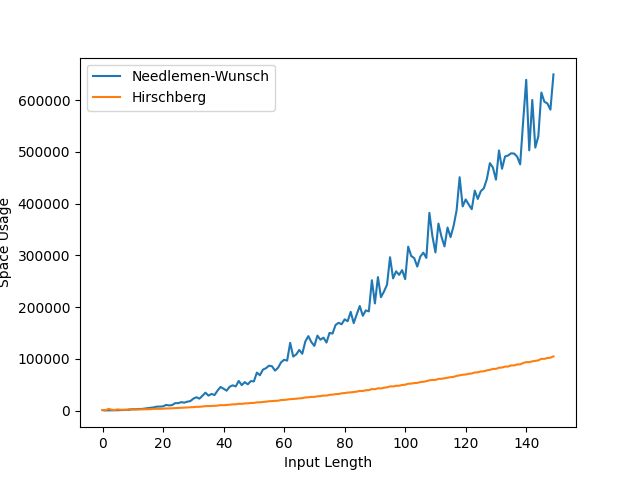
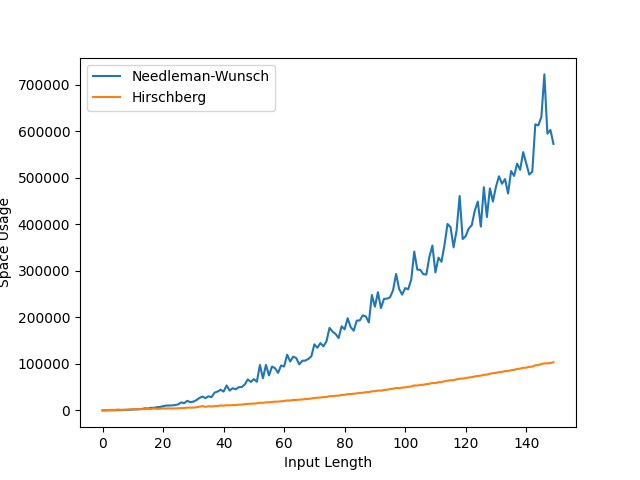
Updated README.md

diff --git a/hirschberg.py b/hirschberg.py
@@ -1,52 +1,49 @@
-from needlemenwunsch import nw
+from needlemanwunsch import needlemanwunsh
 
-def forwards(x, y, simMatrix, gapPenalty, alphEnum):
-    len_1, len_2 = len(x), len(y)
-    curr = []
-    for i in range(len_1+1):
-        curr.append([0]*(len_2+1))
-    for j in range(len_2+1):
-        curr[0][j] = gapPenalty*j
-    for i in range(1, len_1+1):
-        curr[i][0] = curr[i-1][0] + gapPenalty
-        for j in range(1, len_2+1):
-            curr[i][j] = max(curr[i-1][j-1] + simMatrix[alphEnum[x[i-1]]][alphEnum[y[j-1]]],
-                            curr[i-1][j] + gapPenalty,
-                            curr[i][j-1] + gapPenalty)
-        # Now clear row from memory.
-        curr[i-1] = []
-    return curr[len_1]
+def hirschberg(A, B, scores, alphtoint, gaps = -1):
+    if len(A)>1 and len(B)>1:
+        A1 = A[:(len(A)//2)]
 
-def backwards(x, y, simMatrix, gapPenalty, alphEnum):
-    # This is the backwards subroutine.
-    len_1, len_2 = len(x), len(y)
-    curr = []
-    for i in range(len_1+1):
-        curr.append([0]*(len_2+1))
-    for j in range(len_2+1):
-        curr[0][j] = gapPenalty*j
-    for i in range(1, len_1+1):
-        curr[i][0] = curr[i-1][0] + gapPenalty
-        for j in range(1, len_2+1):
-            curr[i][j] = max(curr[i-1][j-1] + simMatrix[alphEnum[x[len_1-i]]][alphEnum[y[len_2-j]]],
-                            curr[i-1][j] + gapPenalty,
-                            curr[i][j-1] + gapPenalty)
-        # Now clear row from memory.
-        curr[i-1] = []
-    return curr[len_1]
+        curr = []
+        for i in range(len(A1)+1):
+            curr.append([0]*(len(B)+1))
+        for i in range(len(B)+1):
+            curr[0][i] = gaps*i
+        for i in range(1, len(A1)+1):
+            curr[i][0] = curr[i-1][0]+gaps
+            for j in range(1, len(B)+1):
+                curr[i][j] = max(curr[i-1][j] + gaps, curr[i][j-1]+gaps,curr[i-1][j-1]+scores[alphtoint[A1[i-1]]][alphtoint[B[j-1]]])
+            curr[i-1] = []
 
+        pref = curr[len(A1)]
 
-def hirschberg(x, y, simMatrix, gapPenalty, alphEnum):
-    len_1, len_2= len(x), len(y)
+        A2 = A[(len(A)//2):]
 
-    if len_1>=2 and len_2>=2:
-        F = forwards(x[:(len_1//2)], y, simMatrix, gapPenalty, alphEnum) 
-        B = backwards(x[(len_1//2):], y, simMatrix, gapPenalty, alphEnum)
-        split = [F[j] + B[len_2-j] for j in range(len_2+1)]
-        diff = split.index(max(split))
-        F, B, split = [], [], []
-        left_call = hirschberg(x[:len_1//2], y[:diff], simMatrix, gapPenalty, alphEnum)
-        right_call = hirschberg(x[len_1//2:], y[diff:], simMatrix, gapPenalty, alphEnum)
-        return [left_call[r] + right_call[r] for r in range(3)]
+        curr = []
+        for i in range(len(A2)+1):
+            curr.append([0]*(len(B)+1))
+        for i in range(len(B)+1):
+            curr[0][i] = gaps*i
+        for i in range(1, len(A2)+1):
+            curr[i][0] = curr[i-1][0]+gaps
+            for j in range(1, len(B)+1):
+                curr[i][j] = max(curr[i-1][j]+gaps,curr[i][j-1]+gaps,curr[i-1][j-1]+scores[alphtoint[A2[len(A2)-i]]][alphtoint[B[len(B)-j]]])
+            curr[i-1] = []
+        suff =  curr[len(A2)]
+
+        midpts = []
+
+        for i in range(len(B)+1):
+            midpts.append(pref[i] + suff[len(B)-i])
+        
+        diff = midpts.index(max(midpts))
+
+        topleft = hirschberg(A[:len(A)//2],B[:diff],scores,alphtoint,gaps)
+        btmright = hirschberg(A[len(A)//2:],B[diff:],scores,alphtoint,gaps)
+
+        output = []
+        for i in range(3):
+            output.append(topleft[i] + btmright[i])
+        return output
     else:
-        return nw(x,y,simMatrix,gapPenalty,alphEnum)
+        return needlemanwunsh(A,B,scores,alphtoint,gaps)

diff --git a/experiments.py b/experiments.py
@@ -1,4 +1,4 @@
-from needlemenwunsch import nw
+from needlemanwunsch import needlemanwunsh
 from hirschberg import hirschberg
 import random
 import time
@@ -7,14 +7,19 @@ import tracemalloc
 
 alph = ["A", "C", "G", "T"]
 
-gap_pen = -1
-
 scores = [[1,-1,-1,-1],[-1,1,-1,-1],[-1,-1,1,-1],[-1,-1,-1,1]]
 alph_to_int = {}
 alph_to_int["A"] = 0
 alph_to_int["C"] = 1
 alph_to_int["G"] = 2
 alph_to_int["T"] = 3
+
+N = 150
+
+A = "ACTGTA"
+B = "CTGAT"
+
+print(hirschberg(A, B, scores, alph_to_int))
 
 def random_string(str_size):
     out_str = ""
@@ -24,31 +29,30 @@ def random_string(str_size):
 
     return out_str
 
-N = 150
 lens = [i for i in range(N)]
 
 def runtime_experiment(N):
-    run_time_needlemen = []
+    run_time_needleman = []
     run_time_hirschberg = []
 
     for i in range(N):
         A = random_string(i)
         B = random_string(i)
 
-        start_needlemen = time.time()
-        nw(A, B, scores, gap_pen, alph_to_int)
-        end_needlemen = time.time()
+        start_needleman = time.time()
+        needlemanwunsh(A, B, scores, alph_to_int)
+        end_needleman = time.time()
 
-        run_time_needlemen.append(end_needlemen-start_needlemen)
+        run_time_needleman.append(end_needleman-start_needleman)
 
         start_hirschberg = time.time()
-        hirschberg(A, B, scores, gap_pen, alph_to_int)
+        hirschberg(A, B, scores, alph_to_int)
         end_hirschberg = time.time()
 
         run_time_hirschberg.append(end_hirschberg-start_hirschberg)
 
 
-    plt.plot(lens, run_time_needlemen, label = "Needlemen-Wunsch") 
+    plt.plot(lens, run_time_needleman, label = "Needleman-Wunsch") 
     plt.plot(lens, run_time_hirschberg, label = "Hirschberg") 
     plt.legend() 
     plt.xlabel("Input Length")
@@ -56,7 +60,7 @@ def runtime_experiment(N):
     plt.show()
     
 def memory_experiment(N):
-    memory_needlemen = []
+    memory_needleman = []
     memory_hirschberg = []
 
     for i in range(N):
@@ -64,23 +68,23 @@ def memory_experiment(N):
         B = random_string(i)
 
         tracemalloc.start()
-        nw(A, B, scores, gap_pen, alph_to_int)
-        memory_needlemen.append(tracemalloc.get_traced_memory()[1])
+        
+        needlemanwunsh(A, B, scores, alph_to_int)
+        memory_needleman.append(tracemalloc.get_traced_memory()[1])
         tracemalloc.stop()
 
         tracemalloc.start()
-        hirschberg(A, B, scores, gap_pen, alph_to_int)
+        hirschberg(A, B, scores, alph_to_int)
         memory_hirschberg.append(tracemalloc.get_traced_memory()[1])
         tracemalloc.stop()
 
-        # print(memory_needlemen)
-        # print(memory_hirschberg)
-
     plt.clf()
-    plt.plot(lens, memory_needlemen, label = "Needlemen-Wunsch") 
+    plt.plot(lens, memory_needleman, label = "Needleman-Wunsch") 
     plt.plot(lens, memory_hirschberg, label = "Hirschberg") 
     plt.legend() 
     plt.xlabel("Input Length")
     plt.ylabel("Space Usage")
     plt.show()
 
+# runtime_experiment(N)
+# memory_experiment(N)

diff --git a/needlemanwunsch.py b/needlemanwunsch.py
@@ -1,0 +1,47 @@
+def needlemanwunsh(A, B, scores, alphtoint, gaps=-1):
+    A_output = ""
+    B_output = ""
+
+    curr = []
+    for i in range(len(A)+1):
+        curr.append([0]*(len(B)+1))
+
+    for i in range(len(B)+1):
+        curr[0][i] = gaps*i
+
+    for i in range(len(A)+1):
+        curr[i][0] = gaps*i
+
+    for i in range(1, len(A)+1):
+        for j in range(1, len(B)+1):
+            curr[i][j] = max(curr[i][j-1]+gaps, curr[i-1][j]+gaps,curr[i-1][j-1]+scores[alphtoint[A[i-1]]][alphtoint[B[j-1]]])
+    
+    i, j = len(A), len(B)
+    while i>0 and j>0:  
+        if curr[i][j] == curr[i-1][j]+gaps:
+            A_output = A[i-1]+A_output
+            B_output = '-'+B_output
+            i -= 1
+
+        elif curr[i][j] == curr[i][j-1]+gaps:
+            A_output = '-'+A_output
+            B_output = B[j-1]+B_output
+            j -= 1
+
+        elif curr[i][j] == curr[i-1][j-1]+scores[alphtoint[A[i-1]]][alphtoint[B[j-1]]]:
+            A_output = A[i-1]+A_output
+            B_output = B[j-1]+B_output
+            i -= 1
+            j -= 1
+
+    while i>0:
+        A_output = A[i-1]+A_output
+        B_output = '-'+B_output
+        i -= 1
+
+    while j>0:
+        A_output = '-'+A_output
+        B_output = B[j-1]+B_output
+        j -= 1
+        
+    return [A_output, B_output, curr[len(A)][len(B)]]

diff --git a/README.md b/README.md
@@ -1,21 +1,21 @@
 # CS466FinalProject
 Implementing Hirschberg and Needleman-Wunsch Algorithms
 
-Running Hirschberg Method in hirschberg.py or Needlemen-Wunsch Method in needlemenwunsch.py:
+Running Hirschberg Method in hirschberg.py or Needleman-Wunsch Method in needlemanwunsch.py:
 
 1. Define an input alphabet as a list of strings
     
     Ex: alph = ["A", "C", "G", "T"]
 
-2. Define a gap penalty integer variable 
+2. Define a gap penalty integer variable (Default value is set to -1)
 
-    Ex: gap_pen = -1
+    Ex: gap_pen = -2
 
 3. Create a scoring matrix as a list of lists
 
     Ex: scores = [[1,-1,-1,-1],[-1,1,-1,-1],[-1,-1,1,-1],[-1,-1,-1,1]]
 
-4. Create a alphabet to index mapping dictionary
+4. Create an alphabet to index mapping dictionary
 
     Ex: alph_to_int = {}
         alph_to_int["A"] = 0
@@ -25,20 +25,21 @@ Running Hirschberg Method in hirschberg.py or Needlemen-Wunsch Method in needlem
 
 5. Define your input strings
 
-    Ex: A = "ATCGTA"
-        B = "TCTGAT"
+    Ex: A = "ACTGTA"
+        B = "CTGAT"
 
-5. Call the Hirschberg or Needlemen-Wunsch method:
-    hirschberg(A, B, scores, gap_pen, alph_to_int)
+5. Call the Hirschberg or Needleman-Wunsch method to get both the final global alignment and score of the input sequences:
+    hirschberg(A, B, scores, alph_to_int, gap_pen)
+    needlemanwunsch(A, B, scores, alph_to_int, gap_pen)
 
 
 Running Runtime or Memory Experiments in experiments.py:
 
-1. Define an integer variable for the largest input sequence length
+1. Define an integer variable with the largest input sequence length to run in the experiment
     Ex: N = 150
 
-2. Call the runtime experiment function:
+2. Call the runtime experiment function to generate an input length vs. runtime graph:
     runtime_experiment(N)
 
-2. Call the memory experiment function:
+2. Call the memory experiment function to generate an input length vs. space usage graph:
     memory_experiment(N)
